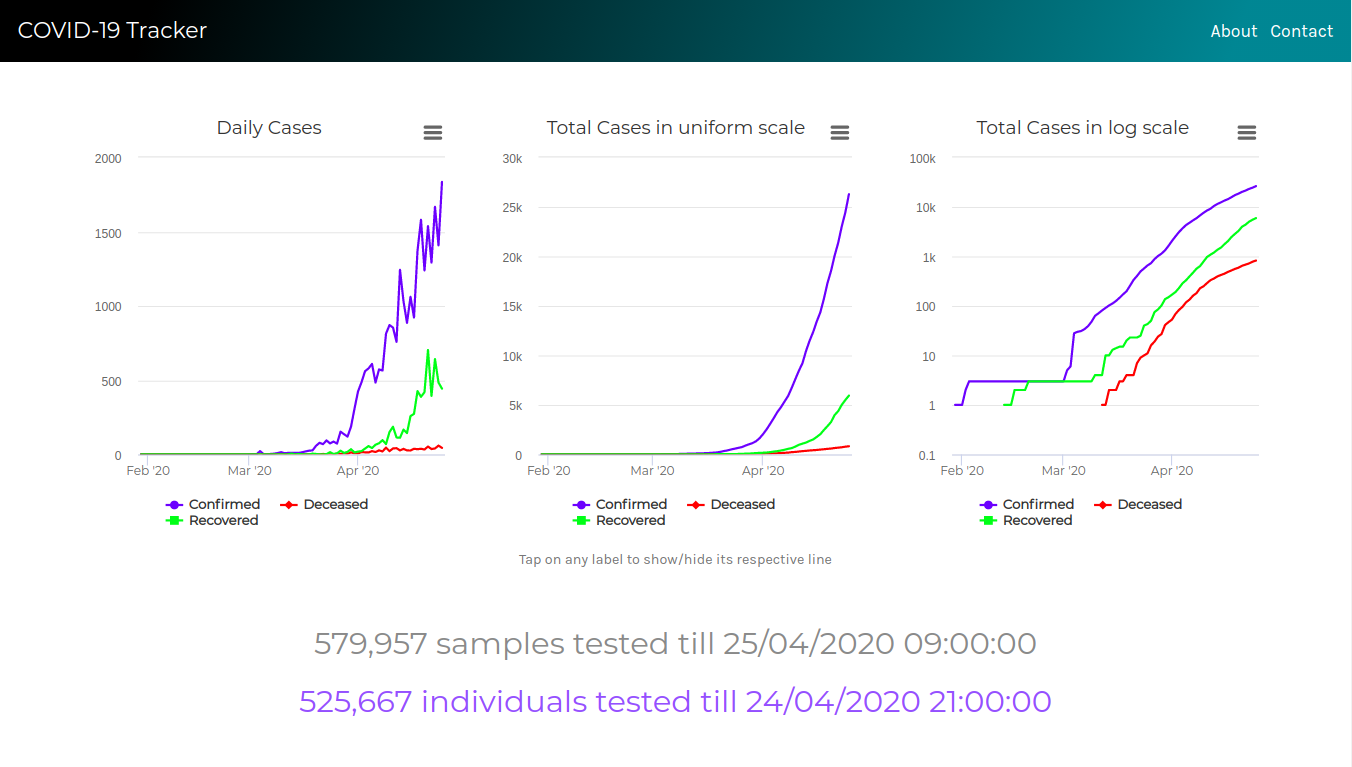
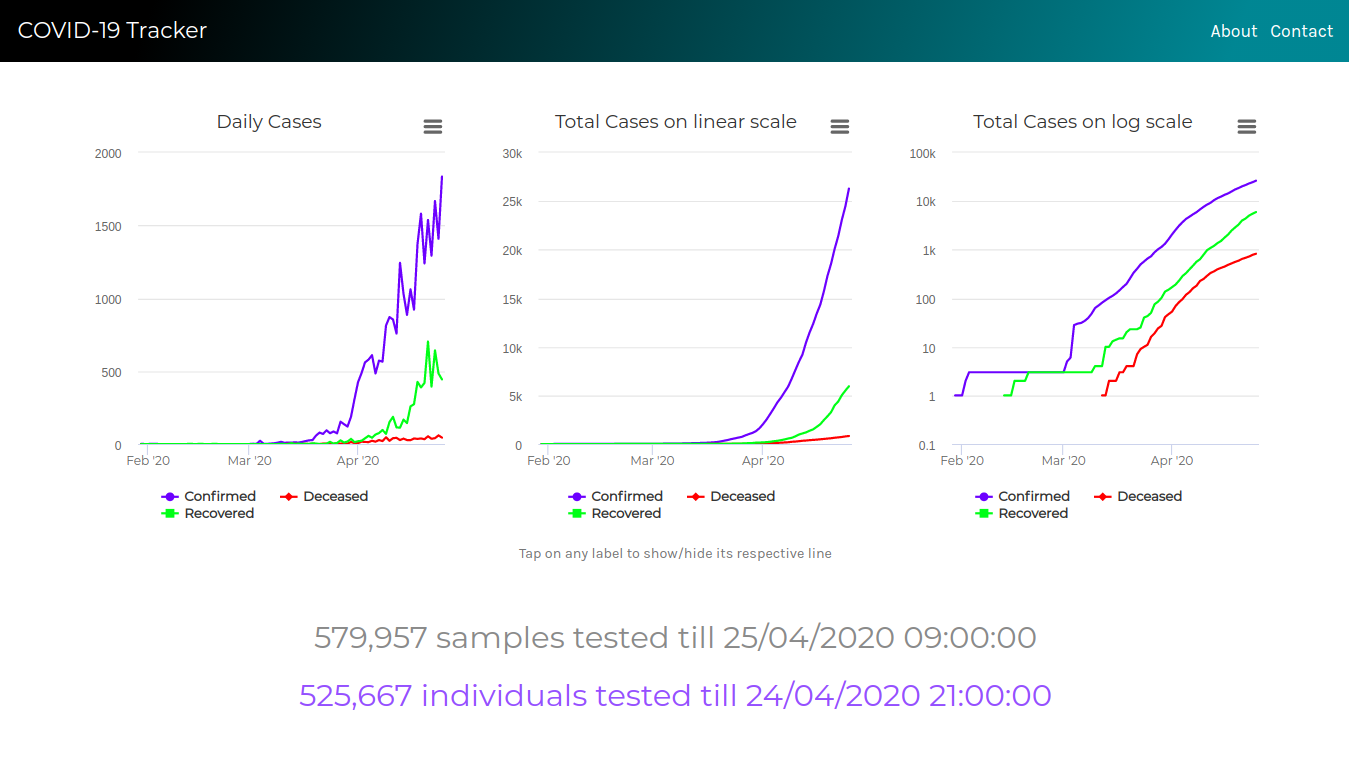
update

diff --git a/src/main/resources/static/js/home.js b/src/main/resources/static/js/home.js
@@ -620,7 +620,7 @@ function drawTotalCasesUniformGraph(totalConfirmed, totalDeceased, totalRecovere
             }
         },
         title: {
-            text: 'Total Cases in uniform scale',
+            text: 'Total Cases on linear scale',
             style: {
                 fontSize: '17px'
             }
@@ -675,7 +675,7 @@ function drawTotalCasesLogGraph(totalConfirmed, totalDeceased, totalRecovered) {
             }
         },
         title: {
-            text: 'Total Cases in log scale',
+            text: 'Total Cases on log scale',
             style: {
                 fontSize: '17px'
             }
